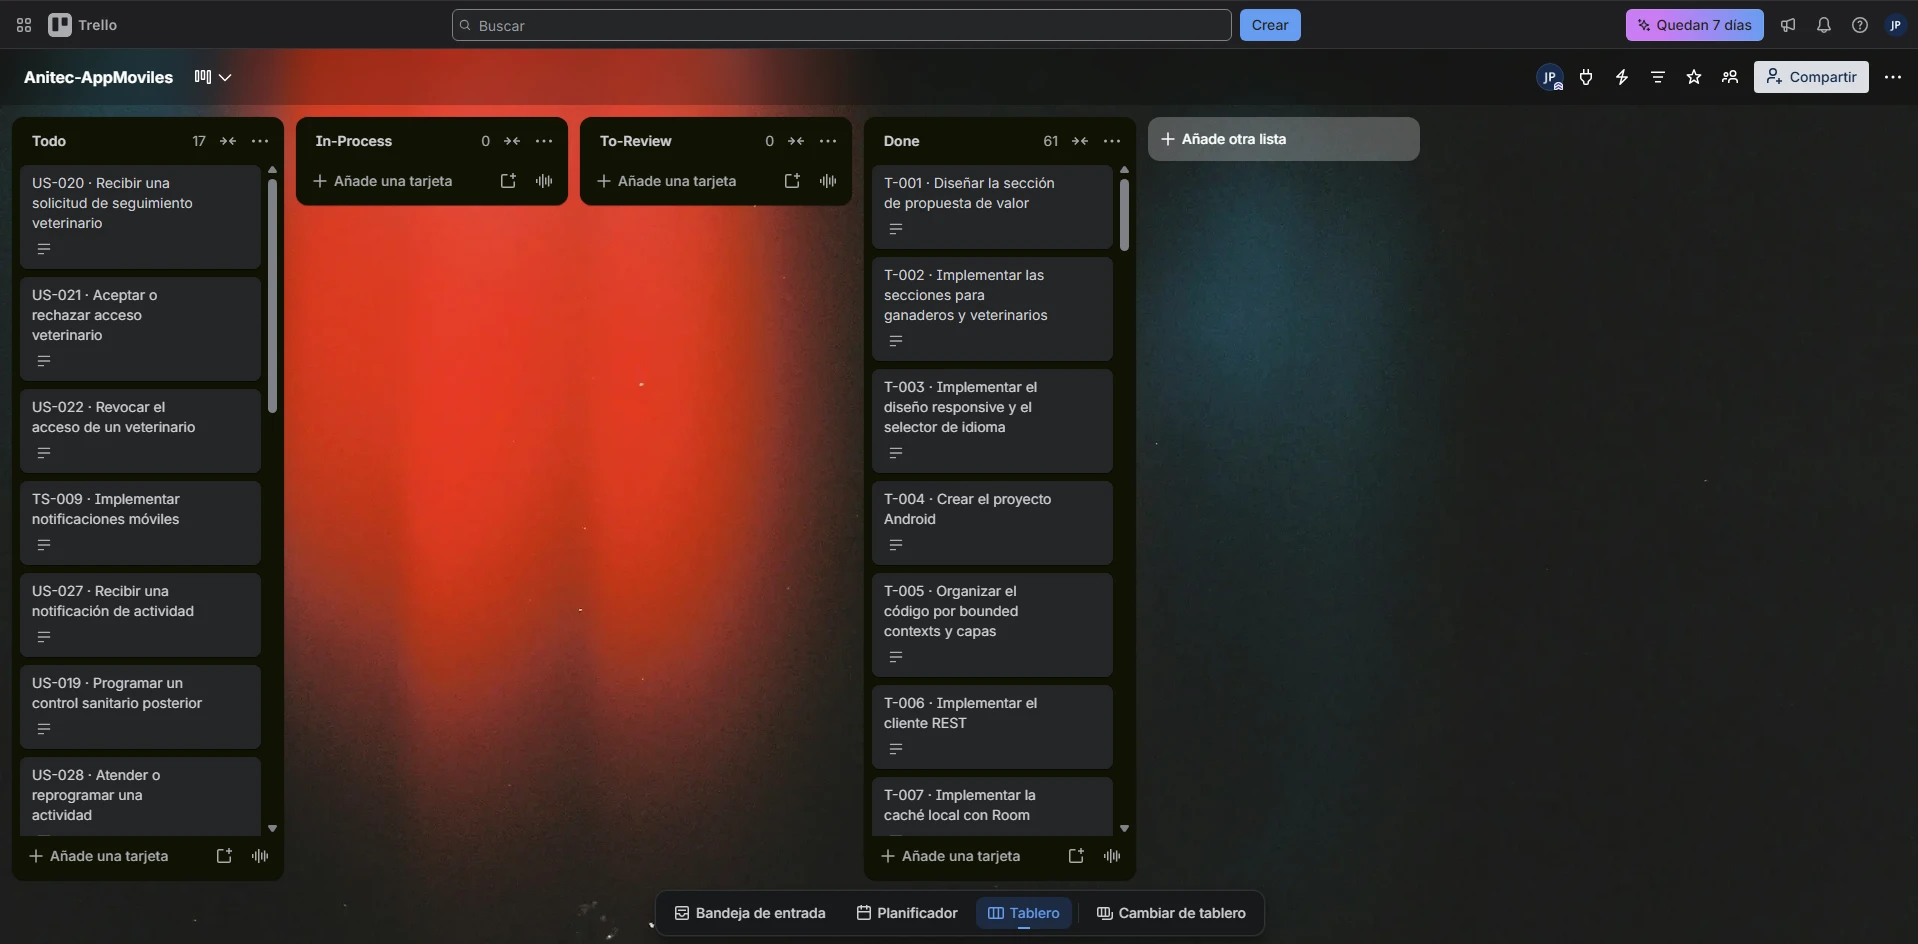
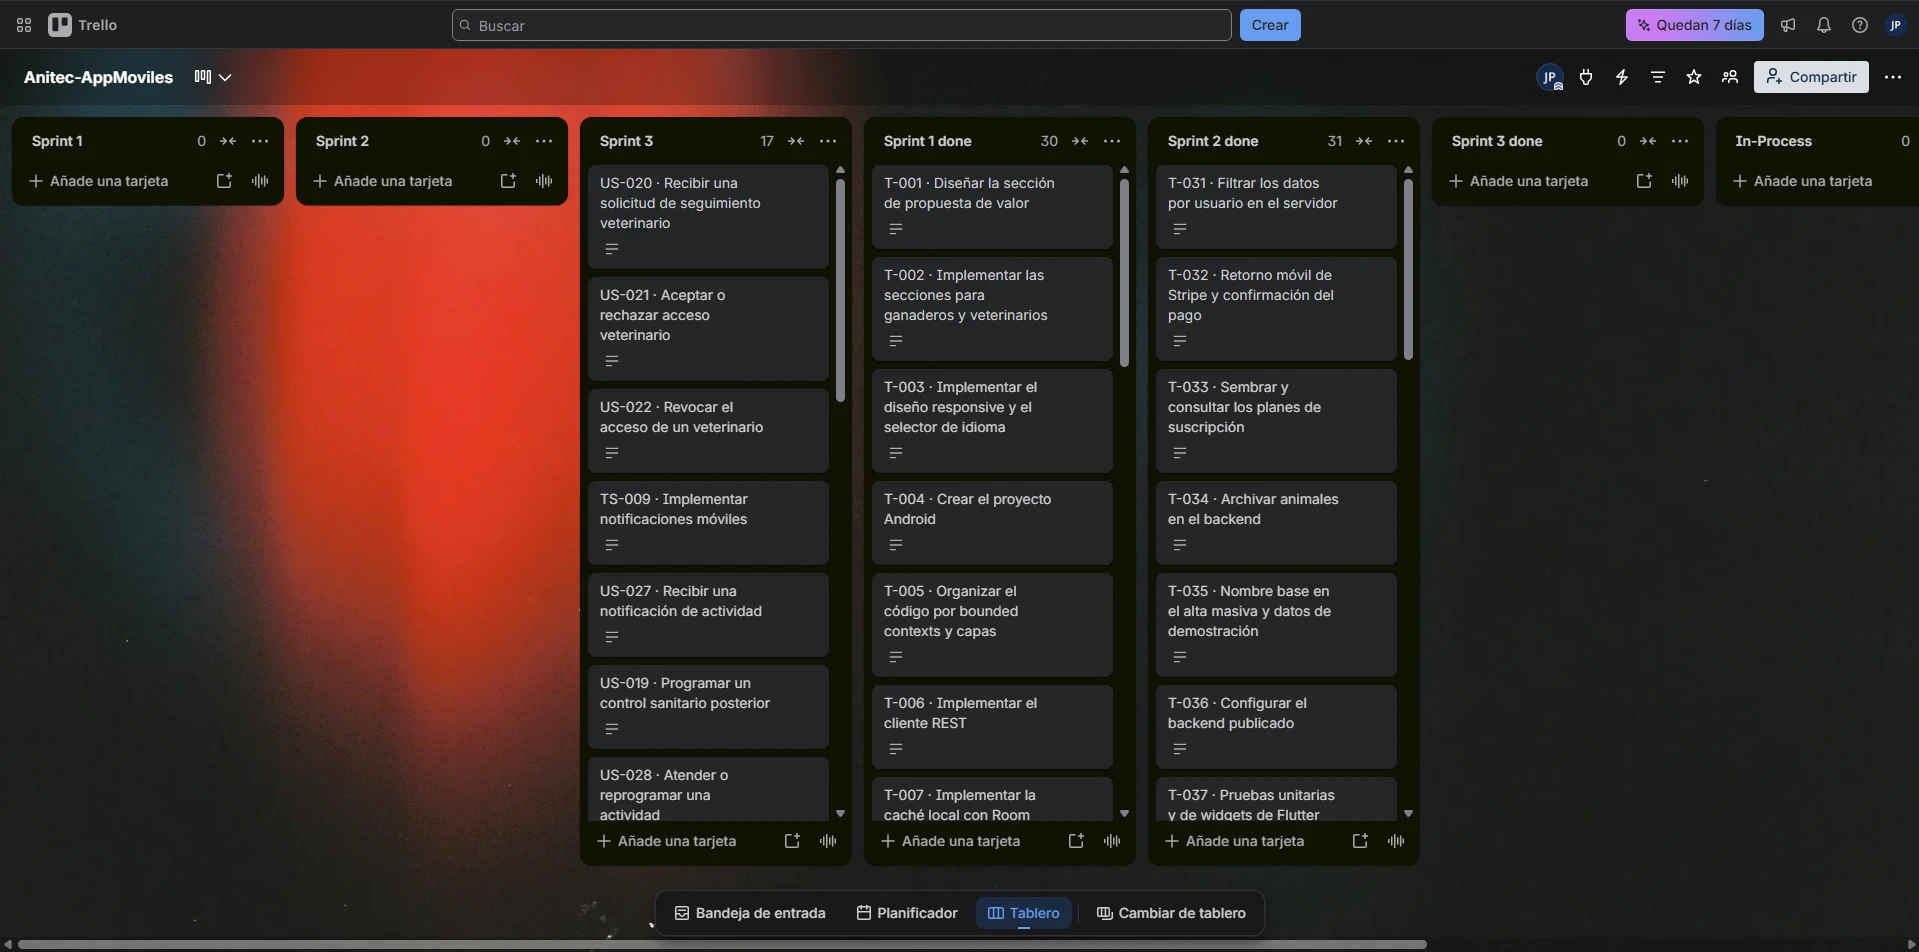
docs: update the Trello capture and text for the board split by sprint and done lists

diff --git a/markdown/content/chapter-4/4-2-2-Sprint2.md b/markdown/content/chapter-4/4-2-2-Sprint2.md
@@ -82,13 +82,13 @@ La matriz LACX indica un líder (L) y los colaboradores (C) de cada aspecto del 
 
 ### 4.2.2.3. Sprint Backlog 2
 
-El Sprint Backlog descompone las historias comprometidas en tareas comprobables y refleja el objetivo del sprint: una aplicación Android completa y una primera versión de Flutter, respaldadas por el backend publicado y distribuidas en Firebase. El tablero utiliza los estados Todo, In-Process, To-Review y Done. A partir de este sprint los tres sprints se gestionan en un solo tablero de Trello: las 30 tareas del Sprint 1 y las 31 del Sprint 2 están en Done y las 17 historias del Sprint 3 en Todo. Las tareas del Sprint 2 se repartieron en partes iguales entre los cinco integrantes, 40 horas estimadas por persona.
+El Sprint Backlog descompone las historias comprometidas en tareas comprobables y refleja el objetivo del sprint: una aplicación Android completa y una primera versión de Flutter, respaldadas por el backend publicado y distribuidas en Firebase. A partir de este sprint los tres sprints se gestionan en un solo tablero de Trello, con una lista de trabajo y una lista «done» por sprint (Sprint 1, Sprint 2 y Sprint 3, y Sprint 1 done, Sprint 2 done y Sprint 3 done), además de las listas In-Process y To-Review. Las 30 tareas del Sprint 1 están en «Sprint 1 done», las 31 del Sprint 2 en «Sprint 2 done» y las 17 historias del Sprint 3 en «Sprint 3». Las tareas del Sprint 2 se repartieron en partes iguales entre los cinco integrantes, 40 horas estimadas por persona.
 
 - **Sprint Goal:** completar la aplicación Android y ofrecer una primera versión de Flutter, con el backend publicado (ver 4.2.2.1).
 - **Board URL:** [URL pública del tablero único de los tres sprints.](https://trello.com/invite/b/6af2a28dd987f87005f6ced9/ATTI7e2d0017436a4884462efe36555772a2621DEA6B/anitec-appmoviles)
 
 <div align="center">
-  <img src="../../assets/chapter-4/sprint2/fig-4-2-2-3-1-trello-tablero-unico.png" alt="Tablero único de Trello de los tres sprints con las listas Todo (17 tarjetas), In-Process, To-Review y Done (61 tarjetas)" width="800">
+  <img src="../../assets/chapter-4/sprint2/fig-4-2-2-3-1-trello-tablero-unico.png" alt="Tablero único de Trello con las listas Sprint 1, Sprint 2, Sprint 3, Sprint 1 done (30 tarjetas), Sprint 2 done (31 tarjetas) y Sprint 3 done, además de In-Process" width="800">
   <p><i>Figura 4.2.2.3.1. Tablero único de Trello de los Sprints 1, 2 y 3. Fuente: elaboración propia.</i></p>
 </div>
 

diff --git a/markdown/content/chapter-2/2-4-Requirements-specification.md b/markdown/content/chapter-2/2-4-Requirements-specification.md
@@ -2383,11 +2383,11 @@ Además, el sprint cierra US-007 y US-012, que quedaron parciales en el Sprint 1
   </tbody>
 </table>
 
-**Seguimiento en Trello.** Las tareas de los tres sprints se gestionan en un solo tablero de Trello, con las listas Todo, In-Process, To-Review y Done. El Sprint Backlog de cada sprint se detalla en las secciones 4.2.1.3 y 4.2.2.3. En la captura, las 61 tareas de los Sprints 1 y 2 están en Done y las 17 historias del Sprint 3 en Todo.
+**Seguimiento en Trello.** Las tareas de los tres sprints se gestionan en un solo tablero de Trello, con una lista de trabajo y una lista «done» por sprint. El Sprint Backlog de cada sprint se detalla en las secciones 4.2.1.3 y 4.2.2.3. En la captura, las 30 tareas del Sprint 1 están en «Sprint 1 done», las 31 del Sprint 2 en «Sprint 2 done» y las 17 historias del Sprint 3 en «Sprint 3».
 
 - **Board URL:** [URL pública del tablero único de los tres sprints.](https://trello.com/invite/b/6af2a28dd987f87005f6ced9/ATTI7e2d0017436a4884462efe36555772a2621DEA6B/anitec-appmoviles)
 
 <div align="center">
-  <img src="../../assets/chapter-4/sprint2/fig-4-2-2-3-1-trello-tablero-unico.png" alt="Tablero único de Trello de los tres sprints con las listas Todo (17 tarjetas), In-Process, To-Review y Done (61 tarjetas)" width="800">
+  <img src="../../assets/chapter-4/sprint2/fig-4-2-2-3-1-trello-tablero-unico.png" alt="Tablero único de Trello con las listas Sprint 1, Sprint 2, Sprint 3, Sprint 1 done (30 tarjetas), Sprint 2 done (31 tarjetas) y Sprint 3 done, además de In-Process" width="800">
   <p><i>Figura 2.4.3.1. Tablero único de Trello de los Sprints 1, 2 y 3. Fuente: elaboración propia.</i></p>
 </div>
